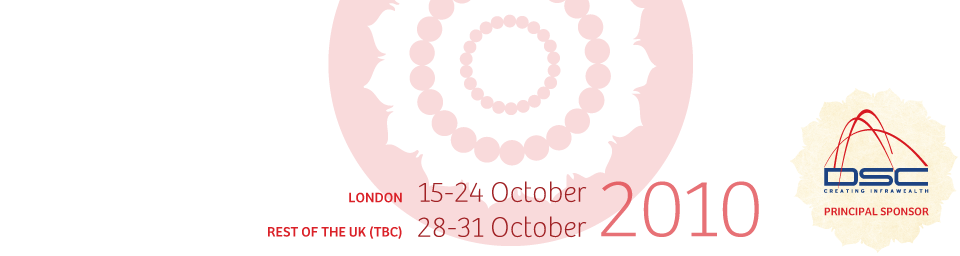
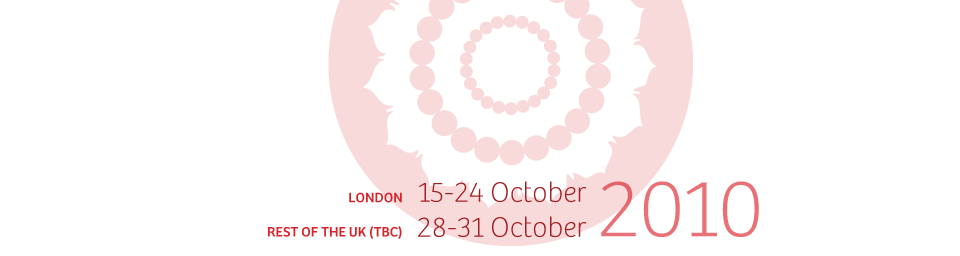
header updated pre-tweet count addition

Changed region(s): [[0.8125, 0.3438, 1.0, 0.9688]]

diff --git a/trunk/salf/style/css/layout.css b/trunk/salf/style/css/layout.css
@@ -163,15 +163,17 @@ h1, h2, h3, h4,h5,h6{
 
 #header{
 	height: 265px;
+	width: 960px;
 	padding: 0;
 	border-bottom: 1px white solid;
+	background: url('../images/header.png') no-repeat;
+	_background: url('../images/header-IE.png') no-repeat;
 }
 #header h1{
 	float: left;
-	background: url('../images/header.png') no-repeat;
-	_background: url('../images/header-IE.png') no-repeat;
+	
 	height: 256px;
-	width: 960px;
+
 }
 #header h1 a span, #header p{
 	display: none;

diff --git a/trunk/salf/functions.php b/trunk/salf/functions.php
@@ -114,5 +114,51 @@ function getTinyUrl($url)
 }
 
 
+/*function tweetmeme(){
+?>
+<div style="float: right; margin: 5px 0 15px 15px;">
+<script type="text/javascript">
+tweetmeme_url = '<?php the_permalink(); ?>';
+</script>
+<script type="text/javascript" src="http://tweetmeme.com/i/scripts/button.js"></script>
+</div>
+<?php
+}//*/
 
+/*
+Get Twitter Followers
+
+function curl($url)
+{
+$ch = curl_init($url);
+curl_setopt($ch,CURLOPT_RETURNTRANSFER, true);
+curl_setopt($ch,CURLOPT_HEADER, 0);
+curl_setopt($ch,CURLOPT_USERAGENT,"southasianlitfest.com");
+curl_setopt($ch,CURLOPT_TIMEOUT,10);
+$data = curl_exec($ch);
+curl_close($ch);
+return $data;
+}
+function GetTwitterFollowerCount($username)
+{
+$twitter_followers = curl("http://twitter.com/statuses/user_timeline/".$username.".xml?count=1");
+$xml = new SimpleXmlElement($twitter_followers, LIBXML_NOCDATA);
+return $xml->status->user->followers_count;
+}
+
+echo GetTwitterFollowerCount("YourTwitterName");
+
+
+//Alterate Method
+
+
+$twit = file_get_contents('http://twitter.com/users/show/USERNAME.xml');
+$begin = '<followers_count>'; $end = '</followers_count>';
+$page = $twit;
+$parts = explode($begin,$page);
+$page = $parts[1];
+$parts = explode($end,$page);
+$tcount = $parts[0];
+if($tcount == '') { $tcount = '0'; }
+echo '<div class="twitter-badge"><strong>'.$tcount.' </strong> Followers</div>';//*/
 ?>

diff --git a/trunk/salf/holding-page.php b/trunk/salf/holding-page.php
@@ -48,7 +48,27 @@ Template Name: Holding Page
 						document.write('<a class="twitter" href="'+twtLink+'" target="_blank"'+'><img src="<?php echo bloginfo('template_url')?>/style/images/social/twitter.png"  border="0" alt="Tweet This!" /'+'><'+'/a>');
 						</script>
 						<noscript><a class="twitter" href="http://twitter.com/home?status=<?php echo getTinyUrl(get_permalink(get_the_ID()));?>" target="_blank"'+'><img src="<?php echo bloginfo('template_url')?>/style/images/social/twitter.png"  border="0" alt="Tweet This!" /></a></noscript>
+					
+						<?php
+						
+							/*
+								Twitter Search -- Incomplete
+							*//*
+						//$url = urlencode(getTinyUrl(get_permalink(get_the_ID())));
+						$url = urlencode('http://fb.me/BJ7WCabv');
+						$file = file_get_contents("http://search.twitter.com/search?q=".$url);
+						$file = strip_tags($file);
 
+						echo "--"."http://search.twitter.com/search?q=".$url."--";
+						echo count($matches[0]);
+						print_r($file);
+						
+							/*
+								Twitter Search -- Incomplete
+							*/
+						?>
+						
+						
 						<span class="facebook-connect">
 						<a href=# target="_blank" class="facebook"><img src="<?php echo bloginfo('template_url')?>/style/images/social/facebook.png" width="16" height="16" alt="Facebook" /></a>
 						<div id="fb-root"></div>

diff --git a/trunk/salf/header.php b/trunk/salf/header.php
@@ -101,8 +101,16 @@ xmlns:fb="http://www.facebook.com/2008/fbml" <?php language_attributes(); ?>>
 		</script>
 		<noscript>This site works best with Javascript turned on. Certain things may look different with it turned off.</noscript>
 		<div id="header">
-		<h1><a href="<?php echo get_option('home'); ?>/"><span><?php bloginfo('name'); ?></span></a></h1>
-		<p><?php bloginfo('description'); ?></p>
+		<h1 style="float: left;">
+			<a href="<?php echo get_option('home'); ?>/" >
+				<img src="<?php echo bloginfo('template_url');?>/style/images/header_salf_main_logo.png" alt="<?php bloginfo('name'); ?>" />
+			</a>
+		</h1>
+		<h2 style="float: right;">
+			<a href="http://www.dsclimited.com/" >
+				<img src="<?php echo bloginfo('template_url');?>/style/images/header_dsc_main_logo.png" alt="DSC - Principle Sponsor" />
+			</a>
+		</h2>
 			
 				
 			
